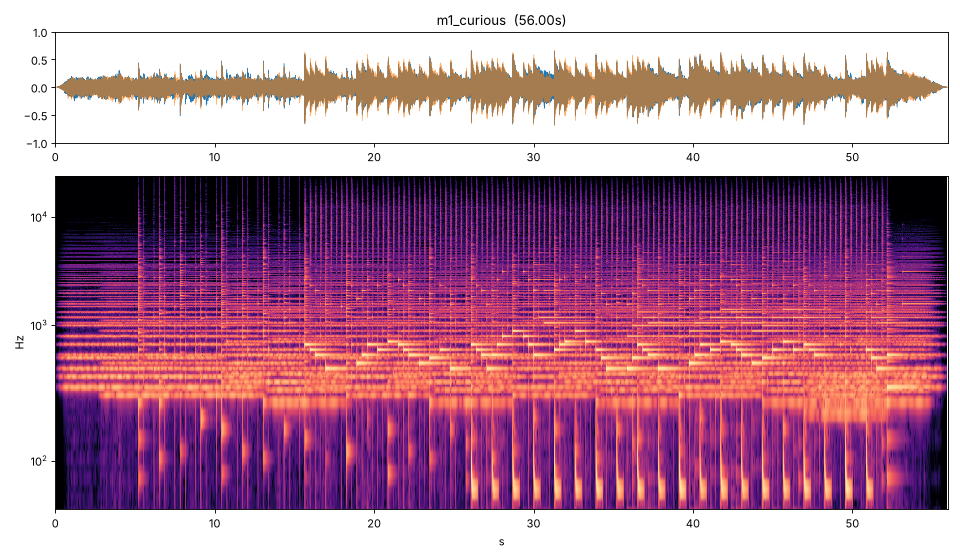
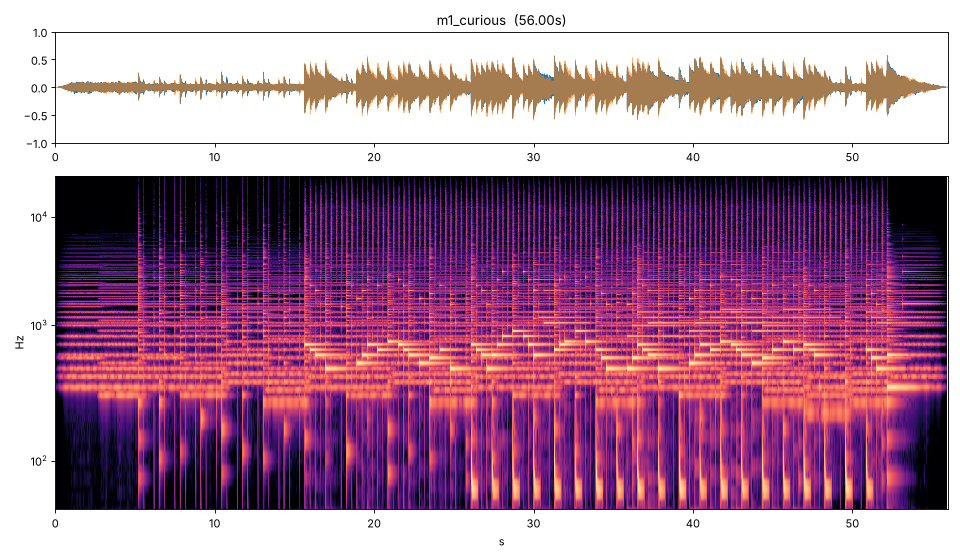
Final SFX/music library and mix balance (music bed +6 dB, quieter crowd beds)
Claude-Session: https://claude.ai/code/session_011tsuhJvcRqQFnPVy3KoYte

diff --git a/video-studio/06_edit/mix.py b/video-studio/06_edit/mix.py
@@ -99,16 +99,16 @@ sfx("riser_short", POPS[0][0] - 1.0, -14)
 
 # ---------- ambience beds ----------
 loop("room_tone_home", 0, SH["A6a"], -30)
-loop("crowd_murmur", SH["C1"], SH["C9"], -33)
-loop("crowd_murmur", SH["C11"], SH["D1"], -31)
+loop("crowd_murmur", SH["C1"], SH["C9"], -38)
+loop("crowd_murmur", SH["C11"], SH["D1"], -36)
 loop("room_tone_home", SH["D2"], SH["D3"], -30)
-loop("crowd_murmur", SH["D4"], SH["D5"], -33)
+loop("crowd_murmur", SH["D4"], SH["D5"], -38)
 loop("room_tone_home", SH["D9"], SH["D10"], -30)
 loop("room_tone_care", SH["E1"], SH["E5"], -30)
 loop("room_tone_care", SH["E9"], SH["F1"], -30)
 loop("room_tone_care", SH["G1"], SH["G5"], -30)
 loop("room_tone_care", SH["G10"], SH["H1"], -31)
-loop("crowd_murmur", SH["H1"], SH["H2"], -34)
+loop("crowd_murmur", SH["H1"], SH["H2"], -38)
 loop("room_tone_care", SH["H4"], SH["I1"], -31)
 loop("room_tone_home", SH["I1"], SH["I4"], -31)
 
@@ -224,7 +224,7 @@ for i, x in enumerate(a_d):
     env[i] = v
 env = np.interp(np.arange(N), np.arange(len(env)) * hop, env)
 duck_db = -11.0
-mgain = 10 ** ((duck_db * env) / 20) * 10 ** (-12 / 20)  # music sits ~12 dB under VO when idle
+mgain = 10 ** ((duck_db * env) / 20) * 10 ** (-6 / 20)  # music sits ~6 dB under VO level when idle
 mus *= mgain[:, None]
 
 mix = vo * 1.0 + mus + sfx_bus * 10 ** (-3 / 20)

diff --git a/video-studio/04_audio/src/music.py b/video-studio/04_audio/src/music.py
@@ -440,7 +440,7 @@ def m4_tender():
     bars2 = ['F', 'C', 'Am', 'F', 'C', 'G', 'F', 'Cadd9']
     r = S2.rng
     # single piano note alone at 45.5 s
-    S2.put('pno', I.piano(F('C5'), S2.spb * 2.2, 0.42, r, release=0.8), 0, 0.15, jitter=0)
+    S2.put('pno', I.piano(F('C5'), S2.spb * 2.2, 0.5, r, release=0.8), 0, 0.15, gain=1.8, jitter=0)
     mel2 = ('r:4 '
             'E5:2 D5:1 C5:1  A4:3 C5:1  '
             'A4:1 C5:1 F5:2  E5:2 D5:1 C5:1  '
